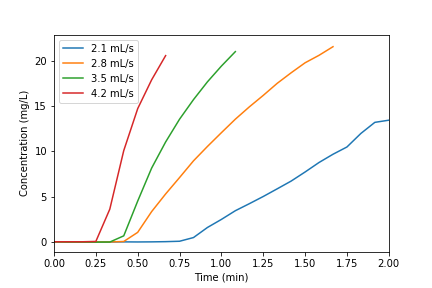
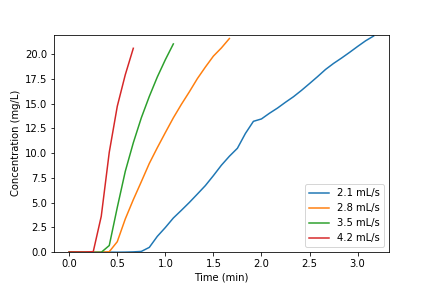
graph formatting

diff --git a/Project/team10_final_report.md b/Project/team10_final_report.md
@@ -107,12 +107,23 @@ One hypothesis that was developed to explain this phenomenon is that thorough mi
 ![Layering Hypothesis](https://raw.githubusercontent.com/lw583/CEE4530/master/Project/Graphic_5.png)
 Figure 8: Diagram of the similar adsorption mechanism for 1, 2, 4, 6 and 8 layers of activated carbon alternating between layers of sand.
 
-Complete mixing is analogous to infinite layers.
+In Figure 8, the dark red line on the right side represents the distribution of red dye concentration between the two activated carbon granules. The ...
 
 ![Mixing Hypothesis](https://raw.githubusercontent.com/lw583/CEE4530/master/Project/Graphic_6.png)
 Figure 9: Diagram of adsorption mechanism for no layers, i.e. thorough mixing of activated carbon and sand throughout the column.
 
+*Complete mixing is analogous to infinite layers.*
+
 [Jacqueline: Graphs with caption]:#
+
+![Flows 1](https://raw.githubusercontent.com/lw583/CEE4530/master/Project/Flows_1.png)
+Figure 10: Graph of red dye concentration against time for all flow rate experiments with 1 layer of activated carbon between layers of sand.
+
+![Flows 2](https://raw.githubusercontent.com/lw583/CEE4530/master/Project/Flows_2.png)
+Figure 11: Graph of red dye concentration against time for higher flow rates.
+
+![Flows 3](https://raw.githubusercontent.com/lw583/CEE4530/master/Project/Flows_3.png)
+Figure 11: Graph of red dye concentration against time for lower flow rates.
 
 #### Conclusion ####
 
@@ -298,7 +309,7 @@ plt.plot(time_data[11].to(u.min), C_data[11])
 plt.plot(time_data[12].to(u.min), C_data[12])
 plt.plot(time_data[13].to(u.min), C_data[13])
 plt.plot(time_data[14].to(u.min), C_data[14])
-plt.xlim(right=2,left=0)
+plt.ylim(0,22)
 plt.xlabel("Time (min)")
 plt.ylabel("Concentration (mg/L)")
 leg = plt.legend(('2.1 mL/s','2.8 mL/s','3.5 mL/s','4.2 mL/s'), loc='best')
@@ -311,6 +322,7 @@ plt.plot(time_data[7].to(u.min), C_data[7])
 plt.plot(time_data[8].to(u.min), C_data[8])
 plt.plot(time_data[9].to(u.min), C_data[9])
 plt.plot(time_data[10][0:25].to(u.min), C_data[10][0:25])
+plt.ylim(0,23)
 plt.xlabel("Time (min)")
 plt.ylabel("Concentration (mg/L)")
 leg = plt.legend(('0.7 mL/s','0.933 mL/s','1.167 mL/s', '1.4 mL/s', '1.75 mL/s'), loc='best')
